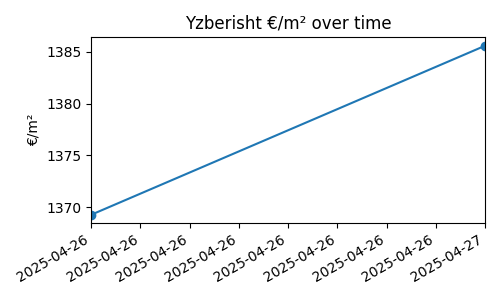
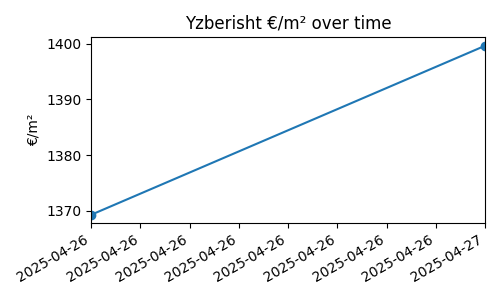
chore: daily dashboard update

diff --git a/docs/index.html b/docs/index.html
@@ -18,34 +18,9 @@
   <h1>Prices on 2025-04-27</h1>
   <div class="grid">
     <div class="card">
-      <h2>Oxhaku</h2>
-      <p><strong>1642.68 €/m²</strong></p>
-      <img src="./static/graphs/Oxhaku.png" alt="Oxhaku price chart">
-    </div>
-    <div class="card">
-      <h2>Pallati me shigjeta</h2>
-      <p><strong>1709.46 €/m²</strong></p>
-      <img src="./static/graphs/Pallati_me_shigjeta.png" alt="Pallati me shigjeta price chart">
-    </div>
-    <div class="card">
-      <h2>Parku</h2>
-      <p><strong>1914.23 €/m²</strong></p>
-      <img src="./static/graphs/Parku.png" alt="Parku price chart">
-    </div>
-    <div class="card">
-      <h2>Pazari i Ri</h2>
-      <p><strong>2640.32 €/m²</strong></p>
-      <img src="./static/graphs/Pazari_i_Ri.png" alt="Pazari i Ri price chart">
-    </div>
-    <div class="card">
-      <h2>Porcelani</h2>
-      <p><strong>1774.79 €/m²</strong></p>
-      <img src="./static/graphs/Porcelani.png" alt="Porcelani price chart">
-    </div>
-    <div class="card">
-      <h2>Qyteti Studenti</h2>
-      <p><strong>1711.76 €/m²</strong></p>
-      <img src="./static/graphs/Qyteti_Studenti.png" alt="Qyteti Studenti price chart">
+      <h2>Mjull bathore</h2>
+      <p><strong>2151.88 €/m²</strong></p>
+      <img src="./static/graphs/Mjull_bathore.png" alt="Mjull bathore price chart">
     </div>
     <div class="card">
       <h2>Vasil Shanto</h2>
@@ -53,54 +28,79 @@
       <img src="./static/graphs/Vasil_Shanto.png" alt="Vasil Shanto price chart">
     </div>
     <div class="card">
-      <h2>Selite</h2>
-      <p><strong>1591.70 €/m²</strong></p>
-      <img src="./static/graphs/Selite.png" alt="Selite price chart">
+      <h2>Kombinat</h2>
+      <p><strong>1199.48 €/m²</strong></p>
+      <img src="./static/graphs/Kombinat.png" alt="Kombinat price chart">
     </div>
     <div class="card">
-      <h2>Shallvaret</h2>
-      <p><strong>2975.66 €/m²</strong></p>
-      <img src="./static/graphs/Shallvaret.png" alt="Shallvaret price chart">
+      <h2>Kinostudio</h2>
+      <p><strong>1738.17 €/m²</strong></p>
+      <img src="./static/graphs/Kinostudio.png" alt="Kinostudio price chart">
     </div>
     <div class="card">
-      <h2>Shkolla e Bashkuar</h2>
-      <p><strong>1683.27 €/m²</strong></p>
-      <img src="./static/graphs/Shkolla_e_Bashkuar.png" alt="Shkolla e Bashkuar price chart">
+      <h2>Kamez</h2>
+      <p><strong>832.33 €/m²</strong></p>
+      <img src="./static/graphs/Kamez.png" alt="Kamez price chart">
     </div>
     <div class="card">
-      <h2>Shkoze</h2>
-      <p><strong>1297.04 €/m²</strong></p>
-      <img src="./static/graphs/Shkoze.png" alt="Shkoze price chart">
+      <h2>Ish Stacioni i Trenit</h2>
+      <p><strong>2167.44 €/m²</strong></p>
+      <img src="./static/graphs/Ish_Stacioni_i_Trenit.png" alt="Ish Stacioni i Trenit price chart">
     </div>
     <div class="card">
-      <h2>Tufine</h2>
-      <p><strong>1144.76 €/m²</strong></p>
-      <img src="./static/graphs/Tufine.png" alt="Tufine price chart">
-    </div>
-    <div class="card">
-      <h2>Varri i Bamit</h2>
-      <p><strong>1082.82 €/m²</strong></p>
-      <img src="./static/graphs/Varri_i_Bamit.png" alt="Varri i Bamit price chart">
-    </div>
-    <div class="card">
-      <h2>Myslym Shyri</h2>
-      <p><strong>2393.26 €/m²</strong></p>
-      <img src="./static/graphs/Myslym_Shyri.png" alt="Myslym Shyri price chart">
-    </div>
-    <div class="card">
-      <h2>Sauk</h2>
-      <p><strong>1588.86 €/m²</strong></p>
-      <img src="./static/graphs/Sauk.png" alt="Sauk price chart">
-    </div>
-    <div class="card">
-      <h2>Mjull bathore</h2>
-      <p><strong>2151.88 €/m²</strong></p>
-      <img src="./static/graphs/Mjull_bathore.png" alt="Mjull bathore price chart">
+      <h2>Ish Fusha e Aviacionit</h2>
+      <p><strong>1648.00 €/m²</strong></p>
+      <img src="./static/graphs/Ish_Fusha_e_Aviacionit.png" alt="Ish Fusha e Aviacionit price chart">
     </div>
     <div class="card">
       <h2>Fresku</h2>
       <p><strong>1313.64 €/m²</strong></p>
       <img src="./static/graphs/Fresku.png" alt="Fresku price chart">
+    </div>
+    <div class="card">
+      <h2>Komuna e Parisit</h2>
+      <p><strong>2466.52 €/m²</strong></p>
+      <img src="./static/graphs/Komuna_e_Parisit.png" alt="Komuna e Parisit price chart">
+    </div>
+    <div class="card">
+      <h2>Don Bosko</h2>
+      <p><strong>1649.22 €/m²</strong></p>
+      <img src="./static/graphs/Don_Bosko.png" alt="Don Bosko price chart">
+    </div>
+    <div class="card">
+      <h2>Brraka</h2>
+      <p><strong>1720.24 €/m²</strong></p>
+      <img src="./static/graphs/Brraka.png" alt="Brraka price chart">
+    </div>
+    <div class="card">
+      <h2>Blloku</h2>
+      <p><strong>2249.84 €/m²</strong></p>
+      <img src="./static/graphs/Blloku.png" alt="Blloku price chart">
+    </div>
+    <div class="card">
+      <h2>Astir</h2>
+      <p><strong>1376.53 €/m²</strong></p>
+      <img src="./static/graphs/Astir.png" alt="Astir price chart">
+    </div>
+    <div class="card">
+      <h2>Allias</h2>
+      <p><strong>1379.74 €/m²</strong></p>
+      <img src="./static/graphs/Allias.png" alt="Allias price chart">
+    </div>
+    <div class="card">
+      <h2>Ali Demi</h2>
+      <p><strong>1692.56 €/m²</strong></p>
+      <img src="./static/graphs/Ali_Demi.png" alt="Ali Demi price chart">
+    </div>
+    <div class="card">
+      <h2>21 Dhjetori</h2>
+      <p><strong>2368.14 €/m²</strong></p>
+      <img src="./static/graphs/21_Dhjetori.png" alt="21 Dhjetori price chart">
+    </div>
+    <div class="card">
+      <h2>Brryli</h2>
+      <p><strong>1848.70 €/m²</strong></p>
+      <img src="./static/graphs/Brryli.png" alt="Brryli price chart">
     </div>
     <div class="card">
       <h2>Laprake</h2>
@@ -109,78 +109,38 @@
     </div>
     <div class="card">
       <h2>Yzberisht</h2>
-      <p><strong>1385.57 €/m²</strong></p>
+      <p><strong>1399.63 €/m²</strong></p>
       <img src="./static/graphs/Yzberisht.png" alt="Yzberisht price chart">
     </div>
     <div class="card">
-      <h2>21 Dhjetori</h2>
-      <p><strong>2368.14 €/m²</strong></p>
-      <img src="./static/graphs/21_Dhjetori.png" alt="21 Dhjetori price chart">
+      <h2>Varri i Bamit</h2>
+      <p><strong>1082.82 €/m²</strong></p>
+      <img src="./static/graphs/Varri_i_Bamit.png" alt="Varri i Bamit price chart">
     </div>
     <div class="card">
-      <h2>Ali Demi</h2>
-      <p><strong>1692.56 €/m²</strong></p>
-      <img src="./static/graphs/Ali_Demi.png" alt="Ali Demi price chart">
+      <h2>Tufine</h2>
+      <p><strong>1144.76 €/m²</strong></p>
+      <img src="./static/graphs/Tufine.png" alt="Tufine price chart">
     </div>
     <div class="card">
-      <h2>Allias</h2>
-      <p><strong>1379.74 €/m²</strong></p>
-      <img src="./static/graphs/Allias.png" alt="Allias price chart">
+      <h2>Shkoze</h2>
+      <p><strong>1297.04 €/m²</strong></p>
+      <img src="./static/graphs/Shkoze.png" alt="Shkoze price chart">
     </div>
     <div class="card">
-      <h2>Astir</h2>
-      <p><strong>1376.53 €/m²</strong></p>
-      <img src="./static/graphs/Astir.png" alt="Astir price chart">
+      <h2>Shkolla e Bashkuar</h2>
+      <p><strong>1683.27 €/m²</strong></p>
+      <img src="./static/graphs/Shkolla_e_Bashkuar.png" alt="Shkolla e Bashkuar price chart">
     </div>
     <div class="card">
-      <h2>Blloku</h2>
-      <p><strong>2249.84 €/m²</strong></p>
-      <img src="./static/graphs/Blloku.png" alt="Blloku price chart">
+      <h2>Shallvaret</h2>
+      <p><strong>2975.66 €/m²</strong></p>
+      <img src="./static/graphs/Shallvaret.png" alt="Shallvaret price chart">
     </div>
     <div class="card">
-      <h2>Brraka</h2>
-      <p><strong>1720.24 €/m²</strong></p>
-      <img src="./static/graphs/Brraka.png" alt="Brraka price chart">
-    </div>
-    <div class="card">
-      <h2>Brryli</h2>
-      <p><strong>1848.70 €/m²</strong></p>
-      <img src="./static/graphs/Brryli.png" alt="Brryli price chart">
-    </div>
-    <div class="card">
-      <h2>Don Bosko</h2>
-      <p><strong>1649.22 €/m²</strong></p>
-      <img src="./static/graphs/Don_Bosko.png" alt="Don Bosko price chart">
-    </div>
-    <div class="card">
-      <h2>Ish Fusha e Aviacionit</h2>
-      <p><strong>1648.00 €/m²</strong></p>
-      <img src="./static/graphs/Ish_Fusha_e_Aviacionit.png" alt="Ish Fusha e Aviacionit price chart">
-    </div>
-    <div class="card">
-      <h2>Ish Stacioni i Trenit</h2>
-      <p><strong>2167.44 €/m²</strong></p>
-      <img src="./static/graphs/Ish_Stacioni_i_Trenit.png" alt="Ish Stacioni i Trenit price chart">
-    </div>
-    <div class="card">
-      <h2>Kamez</h2>
-      <p><strong>832.33 €/m²</strong></p>
-      <img src="./static/graphs/Kamez.png" alt="Kamez price chart">
-    </div>
-    <div class="card">
-      <h2>Kinostudio</h2>
-      <p><strong>1738.17 €/m²</strong></p>
-      <img src="./static/graphs/Kinostudio.png" alt="Kinostudio price chart">
-    </div>
-    <div class="card">
-      <h2>Kombinat</h2>
-      <p><strong>1199.48 €/m²</strong></p>
-      <img src="./static/graphs/Kombinat.png" alt="Kombinat price chart">
-    </div>
-    <div class="card">
-      <h2>Komuna e Parisit</h2>
-      <p><strong>2466.52 €/m²</strong></p>
-      <img src="./static/graphs/Komuna_e_Parisit.png" alt="Komuna e Parisit price chart">
+      <h2>Selite</h2>
+      <p><strong>1591.70 €/m²</strong></p>
+      <img src="./static/graphs/Selite.png" alt="Selite price chart">
     </div>
     <div class="card">
       <h2>Medreseja</h2>
@@ -188,13 +148,53 @@
       <img src="./static/graphs/Medreseja.png" alt="Medreseja price chart">
     </div>
     <div class="card">
+      <h2>Sauk</h2>
+      <p><strong>1588.86 €/m²</strong></p>
+      <img src="./static/graphs/Sauk.png" alt="Sauk price chart">
+    </div>
+    <div class="card">
+      <h2>Porcelani</h2>
+      <p><strong>1774.79 €/m²</strong></p>
+      <img src="./static/graphs/Porcelani.png" alt="Porcelani price chart">
+    </div>
+    <div class="card">
+      <h2>Pazari i Ri</h2>
+      <p><strong>2640.32 €/m²</strong></p>
+      <img src="./static/graphs/Pazari_i_Ri.png" alt="Pazari i Ri price chart">
+    </div>
+    <div class="card">
+      <h2>Parku</h2>
+      <p><strong>1914.23 €/m²</strong></p>
+      <img src="./static/graphs/Parku.png" alt="Parku price chart">
+    </div>
+    <div class="card">
+      <h2>Pallati me shigjeta</h2>
+      <p><strong>1709.46 €/m²</strong></p>
+      <img src="./static/graphs/Pallati_me_shigjeta.png" alt="Pallati me shigjeta price chart">
+    </div>
+    <div class="card">
+      <h2>Oxhaku</h2>
+      <p><strong>1642.68 €/m²</strong></p>
+      <img src="./static/graphs/Oxhaku.png" alt="Oxhaku price chart">
+    </div>
+    <div class="card">
+      <h2>Myslym Shyri</h2>
+      <p><strong>2393.26 €/m²</strong></p>
+      <img src="./static/graphs/Myslym_Shyri.png" alt="Myslym Shyri price chart">
+    </div>
+    <div class="card">
+      <h2>Qyteti Studenti</h2>
+      <p><strong>1711.76 €/m²</strong></p>
+      <img src="./static/graphs/Qyteti_Studenti.png" alt="Qyteti Studenti price chart">
+    </div>
+    <div class="card">
       <h2>Zogu i Zi</h2>
-      <p><strong>2158.05 €/m²</strong></p>
+      <p><strong>2182.07 €/m²</strong></p>
       <img src="./static/graphs/Zogu_i_Zi.png" alt="Zogu i Zi price chart">
     </div>
     <div class="card">
       <h2>Overall Average</h2>
-      <p><strong>1768.64 €/m²</strong></p>
+      <p><strong>1769.72 €/m²</strong></p>
       <img src="./static/graphs/average.png" alt="Overall price chart">
     </div>
   </div>
